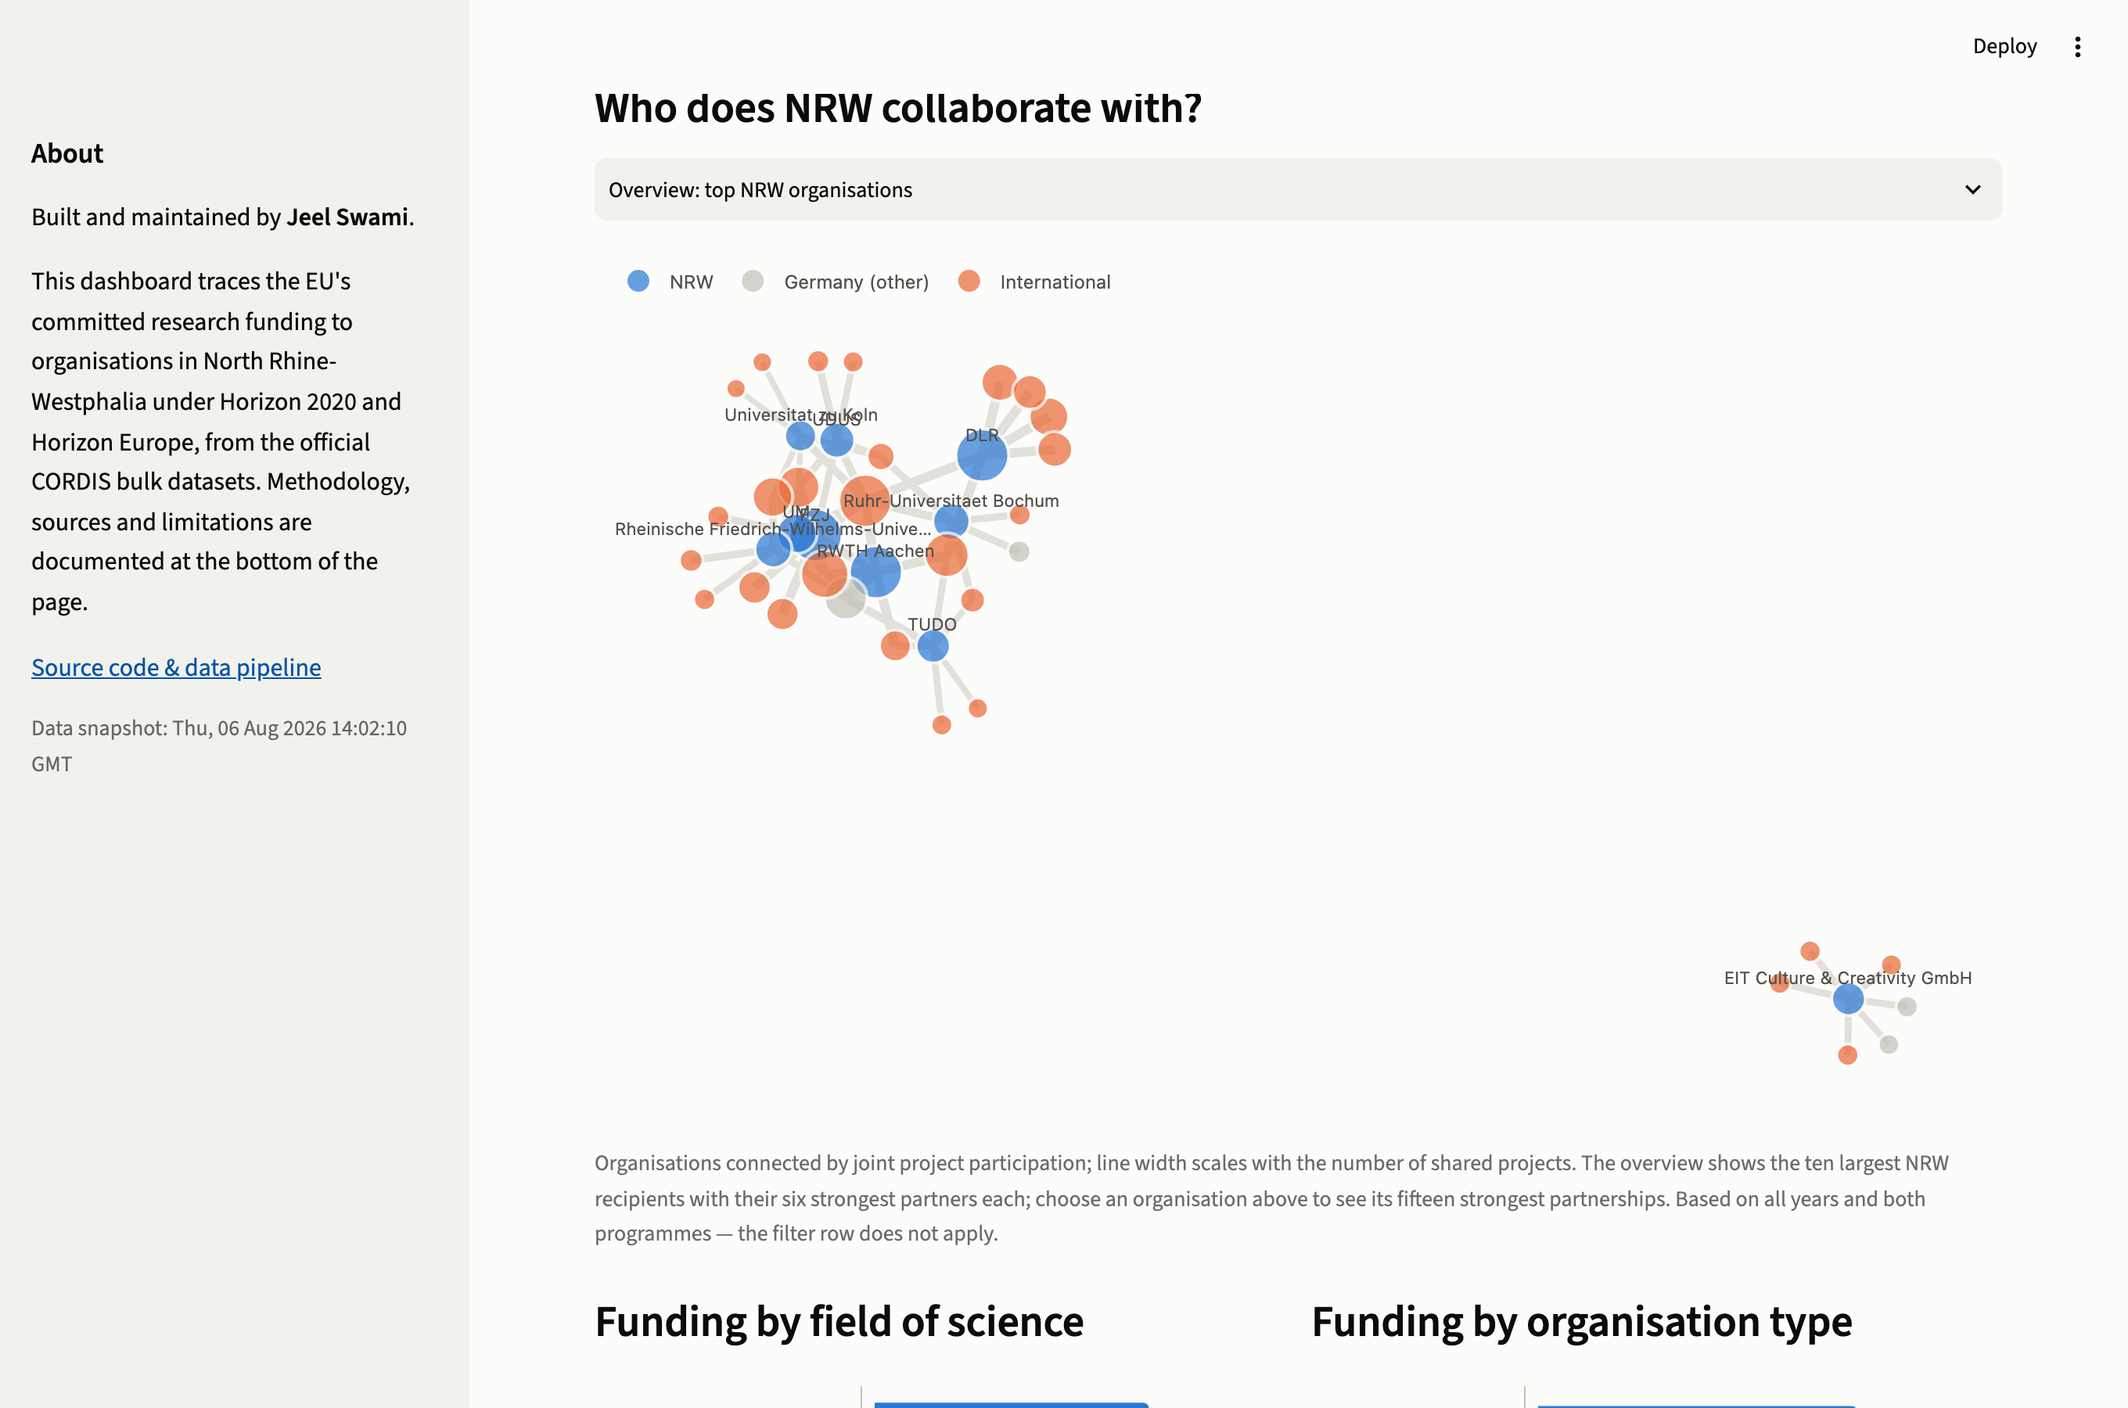
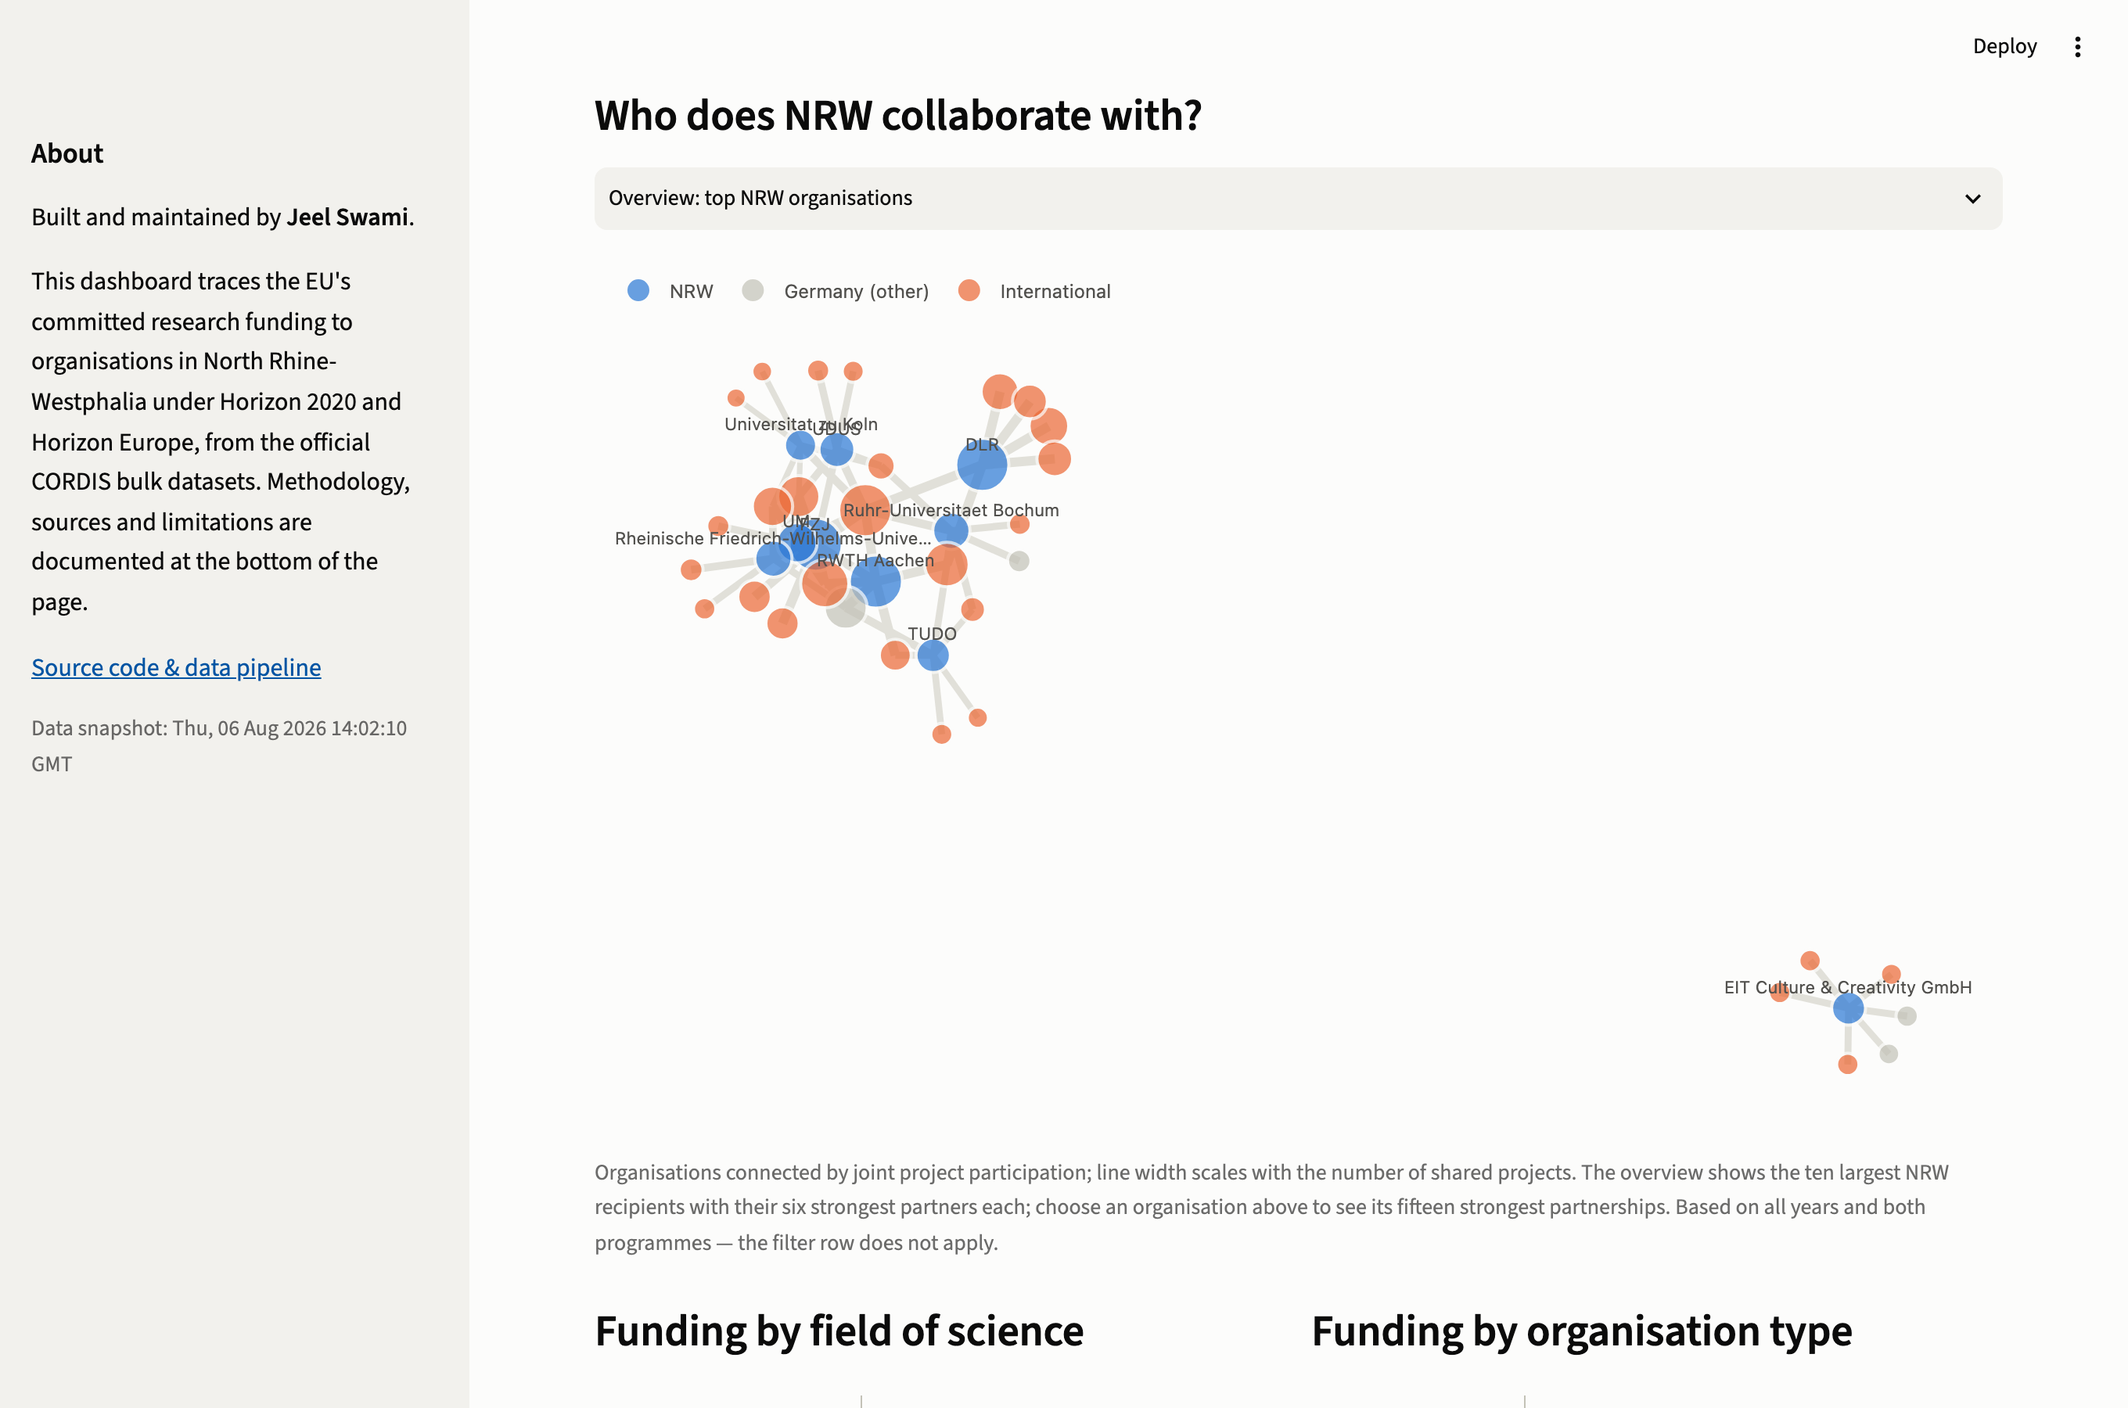
Add DFG comparison from Foerderatlas 2024; rename to 'EU research funding flow in North Rhine-Westphalia, Germany'
DFG figures come from the Foerderatlas 2024 Datawrapper tables (awards
2020-2022, per university and per Land), fetched with provenance. The
dashboard pairs the nine NRW universities in the DFG top 40 with their
EU contributions over the same window, university hospitals included on
both sides and affiliated institutes excluded. Refreshed screenshots.

diff --git a/app.py b/app.py
@@ -28,8 +28,9 @@ GRID = "#e1e0d9"
 SURFACE = "#fcfcfb"
 FONT = 'system-ui, -apple-system, "Segoe UI", sans-serif'
 
-st.set_page_config(page_title="EU research funding in NRW",
-                   page_icon=":bar_chart:", layout="wide")
+st.set_page_config(
+    page_title="EU research funding flow in North Rhine-Westphalia",
+    page_icon=":bar_chart:", layout="wide")
 
 
 def _fingerprint(*paths):
@@ -51,6 +52,12 @@ def load(fingerprint):
 def load_population(fingerprint):
     return json.loads(
         (DATA.parent / "reference" / "population_nuts1.json").read_text())
+
+
+@st.cache_data
+def load_dfg(fingerprint):
+    return json.loads(
+        (DATA.parent / "reference" / "dfg_foerderatlas.json").read_text())
 
 
 def eur(x: float) -> str:
@@ -133,7 +140,7 @@ de, fields, collab, summary = load(_fingerprint(
     DATA / "collab_edges.parquet", DATA / "summary.json"))
 nrw_all = de[de["is_nrw"]]
 
-st.title("Where does EU research funding flow in North Rhine-Westphalia?")
+st.title("EU research funding flow in North Rhine-Westphalia, Germany")
 snapshot = summary["provenance"].get("HORIZON", {}).get("last_modified", "")
 
 with st.sidebar:
@@ -334,6 +341,109 @@ st.caption(
     "organisations' legal seats (e.g. Bremen) rank high because funding "
     "counts at the registered address. The city filter does not apply here.")
 
+# --- DFG comparison ---------------------------------------------------------
+st.subheader("DFG and EU funding side by side")
+dfg = load_dfg(_fingerprint(DATA.parent / "reference" / "dfg_foerderatlas.json"))
+
+# Same reporting window as the Foerderatlas: projects starting 2020-2022.
+window = de[de["start_year"].between(2020, 2022)]
+dfg_nrw = dfg["laender_meur"]["Nordrhein-Westfalen"]
+dfg_share = dfg_nrw / sum(dfg["laender_meur"].values())
+eu_de_window = window["ecContribution"].sum()
+eu_share = (window.loc[window["is_nrw"], "ecContribution"].sum()
+            / eu_de_window if eu_de_window else 0)
+c_dfg1, c_dfg2, c_dfg3 = st.columns(3)
+c_dfg1.metric("DFG awards to NRW, 2020–2022", f"€{dfg_nrw / 1e3:.2f} bn",
+              help="DFG Förderatlas 2024, all NRW institutions.")
+c_dfg2.metric("NRW share of DFG awards", f"{dfg_share:.1%}",
+              help="Share of DFG awards 2020–2022 across the 16 Länder.")
+c_dfg3.metric("NRW share of EU funding, same window", f"{eu_share:.1%}",
+              help="Share of EU contributions to German participants in "
+                   "projects starting 2020–2022.")
+
+# University-level pairing. EU-side groups add the university hospital to
+# its university, since the DFG figures include the medical faculties.
+UNI_GROUPS = {
+    "Aachen TH": ("RWTH Aachen",
+                  ["rheinisch-westfalische technische hochschule",
+                   "rwth aachen", "universitatsklinikum aachen"]),
+    "Bonn U": ("Uni Bonn", ["friedrich-wilhelms-universitat bonn",
+                            "universitatsklinikum bonn"]),
+    "Köln U": ("Uni Köln", ["universitat zu koln"]),
+    "Münster U": ("Uni Münster", ["universitat munster",
+                                  "universitatsklinikum munster"]),
+    "Bochum U": ("RU Bochum", ["ruhr-universitat bochum"]),
+    "Duisburg-Essen U": ("Uni Duisburg-Essen",
+                         ["duisburg-essen", "universitatsklinikum essen"]),
+    "Düsseldorf U": ("Uni Düsseldorf", ["heinrich-heine",
+                                        "universitatsklinikum dusseldorf"]),
+    "Dortmund TU": ("TU Dortmund", ["technische universitat dortmund"]),
+    "Bielefeld U": ("Uni Bielefeld", ["universitat bielefeld"]),
+}
+
+
+def _fold(s: str) -> str:
+    import unicodedata
+    s = unicodedata.normalize("NFKD", (s or "").lower())
+    s = "".join(c for c in s if not unicodedata.combining(c))
+    for a, b in (("ae", "a"), ("oe", "o"), ("ue", "u"), ("ss", "s")):
+        s = s.replace(a, b)
+    return s
+
+
+nrw_window = window[window["is_nrw"]].copy()
+folded = nrw_window["name"].map(_fold)
+# Legally separate affiliated institutes ("... an der Universitaet X") are
+# not part of the university in the DFG figures either.
+not_affiliate = ~folded.str.contains(" an der ", regex=False)
+rows_dfg = []
+for dfg_name, (display, patterns) in UNI_GROUPS.items():
+    mask = (folded.str.contains("|".join(_fold(p) for p in patterns),
+                                regex=True) & not_affiliate)
+    rows_dfg.append({
+        "uni": display,
+        "DFG": dfg["universities_meur"].get(dfg_name, 0.0),
+        "EU": nrw_window.loc[mask, "ecContribution"].sum() / 1e6,
+    })
+cmp_df = pd.DataFrame(rows_dfg).sort_values("DFG")
+dfg_fig = go.Figure()
+dfg_fig.add_bar(y=cmp_df["uni"], x=cmp_df["DFG"], orientation="h",
+                name="DFG awards 2020–2022", marker=dict(color="#1baf7a"),
+                text=[f"€{v:,.0f} m" for v in cmp_df["DFG"]],
+                textposition="outside", textfont=dict(size=11),
+                cliponaxis=False,
+                hovertemplate="%{y}<br>DFG: €%{x:,.1f} m<extra></extra>")
+dfg_fig.add_bar(y=cmp_df["uni"], x=cmp_df["EU"], orientation="h",
+                name="EU contribution, projects starting 2020–2022",
+                marker=dict(color=BLUE),
+                text=[f"€{v:,.0f} m" for v in cmp_df["EU"]],
+                textposition="outside", textfont=dict(size=11),
+                cliponaxis=False,
+                hovertemplate="%{y}<br>EU: €%{x:,.1f} m<extra></extra>")
+dfg_fig.update_layout(barmode="group", bargap=0.25,
+                      legend=dict(orientation="h", y=1.08,
+                                  font=dict(color=INK_2)))
+dfg_fig.update_xaxes(visible=False,
+                     range=[0, float(cmp_df["DFG"].max()) * 1.18])
+dfg_fig.update_yaxes(showgrid=False)
+dfg_fig = style(dfg_fig, 500)
+dfg_fig.update_layout(margin=dict(l=8, r=64, t=8, b=8))
+st.plotly_chart(dfg_fig, config={"displayModeBar": False})
+st.caption(
+    "NRW universities in the DFG Förderatlas top 40, matched to their EU "
+    "funding over the same 2020–2022 window (university hospitals counted "
+    "with their university on both sides). DFG figures are awards "
+    "(Bewilligungen); EU figures are committed contributions for projects "
+    "starting in the window — related but not identical concepts. "
+    "© Deutsche Forschungsgemeinschaft, Förderatlas 2024. The filter row "
+    "does not apply here.")
+if show_tables:
+    st.dataframe(cmp_df.sort_values("DFG", ascending=False)
+                 .rename(columns={"uni": "University",
+                                  "DFG": "DFG 2020–22 (€ m)",
+                                  "EU": "EU 2020–22 (€ m)"})
+                 .round(1), hide_index=True)
+
 # --- Collaboration network --------------------------------------------------
 st.subheader("Who does NRW collaborate with?")
 top_nrw = (collab.drop_duplicates("nrw_org_id")
@@ -495,8 +605,8 @@ with d1:
 with d2:
     snap_short = " ".join(snapshot.split()[1:4]) if snapshot else "latest"
     st.code(
-        "Swami, J. (2026). Where does EU research funding flow\n"
-        "in North Rhine-Westphalia? Interactive dashboard.\n"
+        "Swami, J. (2026). EU research funding flow in\n"
+        "North Rhine-Westphalia, Germany. Interactive dashboard.\n"
         f"Data: CORDIS, EU Publications Office (snapshot {snap_short}).\n"
         f"{APP_URL}", language=None)
 
@@ -537,6 +647,18 @@ corrected attribution throughout.
 projects carry several field tags. Funding per field splits each
 participation's contribution equally across its project's distinct top-level
 fields, so field totals sum to the overall total.
+
+**DFG comparison.** DFG figures come from the published Förderatlas 2024
+tables ([per university](https://foerderatlas.dfg.de/daten/dfg-bewilligungen-fuer-2020-bis-2022-nach-hochschulen-und-fachgebieten/),
+[per Land](https://foerderatlas.dfg.de/daten/dfg-bewilligungen-fuer-2020-bis-2022-nach-bundeslaendern-und-wissenschaftsbereichen/);
+© Deutsche Forschungsgemeinschaft), covering awards made 2020–2022; the
+university table lists the 40 universities with the highest awards. EU
+figures for the comparison are contributions committed to projects starting
+2020–2022. On both sides a university group includes its university
+hospital; legally separate affiliated institutes are excluded. Awards and
+commitments are related but distinct measures, and the DFG funds
+individuals and infrastructure in ways the EU does not — the comparison
+shows orders of magnitude and shares, not a like-for-like ledger.
 
 **Per-inhabitant comparison.** Population figures come from Eurostat,
 dataset [demo_r_d2jan](https://ec.europa.eu/eurostat/databrowser/product/view/demo_r_d2jan)

diff --git a/src/fetch_dfg.py b/src/fetch_dfg.py
@@ -1,0 +1,137 @@
+"""Fetch DFG Foerderatlas 2024 tables (awards 2020-2022).
+
+The DFG publishes its Foerderatlas tables as interactive Datawrapper embeds
+on https://foerderatlas.dfg.de/daten/ . Each embed exposes its underlying
+data at a versioned CSV endpoint; this script resolves the current version
+from the chart's embed.js and stores the parsed figures with provenance.
+
+Tables used (DFG Foerderatlas 2024, reporting period 2020-2022):
+  - 1EMUJ: DFG-Bewilligungen nach Hochschulen und Fachgebieten (top-40
+    universities, EUR million by subject area)
+  - DhzmE: DFG-Bewilligungen nach Bundeslaendern und Wissenschaftsbereichen
+
+Attribution: (c) Deutsche Forschungsgemeinschaft, Foerderatlas 2024.
+
+Usage:
+    python src/fetch_dfg.py
+"""
+
+from __future__ import annotations
+
+import csv
+import io
+import json
+import re
+import ssl
+import sys
+import urllib.request
+from datetime import datetime, timezone
+from pathlib import Path
+
+try:  # macOS framework builds of Python ship without root certificates
+    import certifi
+    SSL_CONTEXT = ssl.create_default_context(cafile=certifi.where())
+except ImportError:
+    SSL_CONTEXT = ssl.create_default_context()
+
+OUT = Path(__file__).resolve().parent.parent / "data" / "reference"
+
+CHARTS = {
+    "universities": {
+        "id": "1EMUJ",
+        "page": ("https://foerderatlas.dfg.de/daten/dfg-bewilligungen-fuer-"
+                 "2020-bis-2022-nach-hochschulen-und-fachgebieten/"),
+    },
+    "laender": {
+        "id": "DhzmE",
+        "page": ("https://foerderatlas.dfg.de/daten/dfg-bewilligungen-fuer-"
+                 "2020-bis-2022-nach-bundeslaendern-und-"
+                 "wissenschaftsbereichen/"),
+    },
+}
+
+
+def get(url: str) -> str:
+    req = urllib.request.Request(
+        url, headers={"User-Agent": "Mozilla/5.0 (data pipeline; "
+                                    "github.com/JeelSwami/nrw-funding-dashboard)"})
+    with urllib.request.urlopen(req, context=SSL_CONTEXT) as resp:
+        return resp.read().decode("utf-8")
+
+
+def german_float(raw: str) -> float | None:
+    s = (raw or "").strip().replace(" ", "")
+    if not s:
+        return None
+    s = s.replace(".", "").replace(",", ".")
+    try:
+        return float(s)
+    except ValueError:
+        return None
+
+
+def fetch_chart(chart_id: str) -> tuple[int, list[list[str]]]:
+    embed = get(f"https://datawrapper.dwcdn.net/{chart_id}/embed.js")
+    m = re.search(rf"dwcdn\.net/{chart_id}/(\d+)/", embed)
+    if not m:
+        sys.exit(f"could not resolve current version for chart {chart_id}")
+    version = int(m.group(1))
+    csv_text = get(
+        f"https://datawrapper.dwcdn.net/{chart_id}/{version}/dataset.csv")
+    rows = list(csv.reader(io.StringIO(csv_text), delimiter="\t"))
+    return version, rows
+
+
+def main() -> int:
+    versions = {}
+
+    version, rows = fetch_chart(CHARTS["universities"]["id"])
+    versions["universities"] = version
+    universities = {}
+    for row in rows[1:]:
+        if not row or not row[0].strip():
+            continue
+        values = [german_float(v) for v in row[1:]]
+        total = sum(v for v in values if v is not None)
+        universities[row[0].strip()] = round(total, 3)
+
+    LAENDER_NAMES = {
+        "Baden-Württemberg", "Bayern", "Berlin", "Brandenburg", "Bremen",
+        "Hamburg", "Hessen", "Mecklenburg-Vorpommern", "Niedersachsen",
+        "Nordrhein-Westfalen", "Rheinland-Pfalz", "Saarland", "Sachsen",
+        "Sachsen-Anhalt", "Schleswig-Holstein", "Thüringen",
+    }
+    version, rows = fetch_chart(CHARTS["laender"]["id"])
+    versions["laender"] = version
+    laender = {}
+    for row in rows[1:]:
+        name = (row[0] if row else "").strip()
+        total = german_float(row[1]) if len(row) > 1 else None
+        # keeps only the 16 Laender: drops the units row and any total row
+        if name in LAENDER_NAMES and total is not None:
+            laender[name] = round(total, 1)
+
+    if "Nordrhein-Westfalen" not in laender or len(universities) < 30:
+        sys.exit("parsed data looks incomplete; check the source tables")
+
+    OUT.mkdir(parents=True, exist_ok=True)
+    record = {
+        "source": "DFG Foerderatlas 2024 (awards 2020-2022, EUR million)",
+        "attribution": "(c) Deutsche Forschungsgemeinschaft, "
+                       "Foerderatlas 2024, foerderatlas.dfg.de",
+        "pages": {k: v["page"] for k, v in CHARTS.items()},
+        "datawrapper_versions": versions,
+        "retrieved_utc": datetime.now(timezone.utc).isoformat(timespec="seconds"),
+        "universities_meur": universities,
+        "laender_meur": laender,
+    }
+    out_path = OUT / "dfg_foerderatlas.json"
+    out_path.write_text(json.dumps(record, ensure_ascii=False, indent=2) + "\n")
+    print(f"[ok] {len(universities)} universities, {len(laender)} Laender "
+          f"(NRW: {laender['Nordrhein-Westfalen']:,} M EUR)")
+    print(f"[ok] wrote {out_path}")
+    return 0
+
+
+if __name__ == "__main__":
+    sys.exit(main())

diff --git a/README.md b/README.md
@@ -1,4 +1,4 @@
-# Where does EU research funding flow in North Rhine-Westphalia?
+# EU research funding flow in North Rhine-Westphalia, Germany
 
 **Live demo: [nrw-funding-dashboard.streamlit.app](https://nrw-funding-dashboard.streamlit.app)**
 
@@ -15,6 +15,8 @@ Jülich; natural sciences and engineering together account for over half of
 the field-attributed funding.
 
 ![Dashboard overview: filters, key figures and funding by start year](docs/screenshot-overview.png)
+
+![DFG and EU funding side by side for NRW universities](docs/screenshot-dfg.png)
 
 ![Collaboration network of the largest NRW recipients and their European partners](docs/screenshot-network.png)
 
@@ -39,6 +41,7 @@ table view for every chart.
 | CORDIS – EU research projects under Horizon Europe | 2021–2027 | [data.europa.eu](https://data.europa.eu/data/datasets/cordis-eu-research-projects-under-horizon-europe-2021-2027) |
 | CORDIS – EU research projects under Horizon 2020 | 2014–2020 | [data.europa.eu](https://data.europa.eu/data/datasets/cordish2020projects) |
 | Eurostat – population on 1 January by NUTS region (demo_r_d2jan) | Länder populations | [ec.europa.eu/eurostat](https://ec.europa.eu/eurostat/databrowser/product/view/demo_r_d2jan) |
+| DFG Förderatlas 2024 – awards by university and by Land | DFG awards 2020–2022 | [foerderatlas.dfg.de](https://foerderatlas.dfg.de/daten/) |
 
 The CORDIS datasets are published by the EU Publications Office; reuse is
 permitted under [Commission Decision 2011/833/EU](http://data.europa.eu/eli/dec/2011/833/oj)
@@ -100,7 +103,6 @@ data/processed/           Parquet files + machine-generated build summary
 
 ## Roadmap
 
-- **DFG funding (GEPRIS).** The DFG's project database has no
-  machine-readable bulk access as of mid-2026; a planned second data source
-  is the DFG's published funding tables, which would put national and EU
-  funding side by side.
+- **Project-level DFG data.** The dashboard compares DFG and EU funding
+  using the published Förderatlas 2024 tables; project-level DFG analysis
+  waits on GEPRIS offering machine-readable bulk access.
